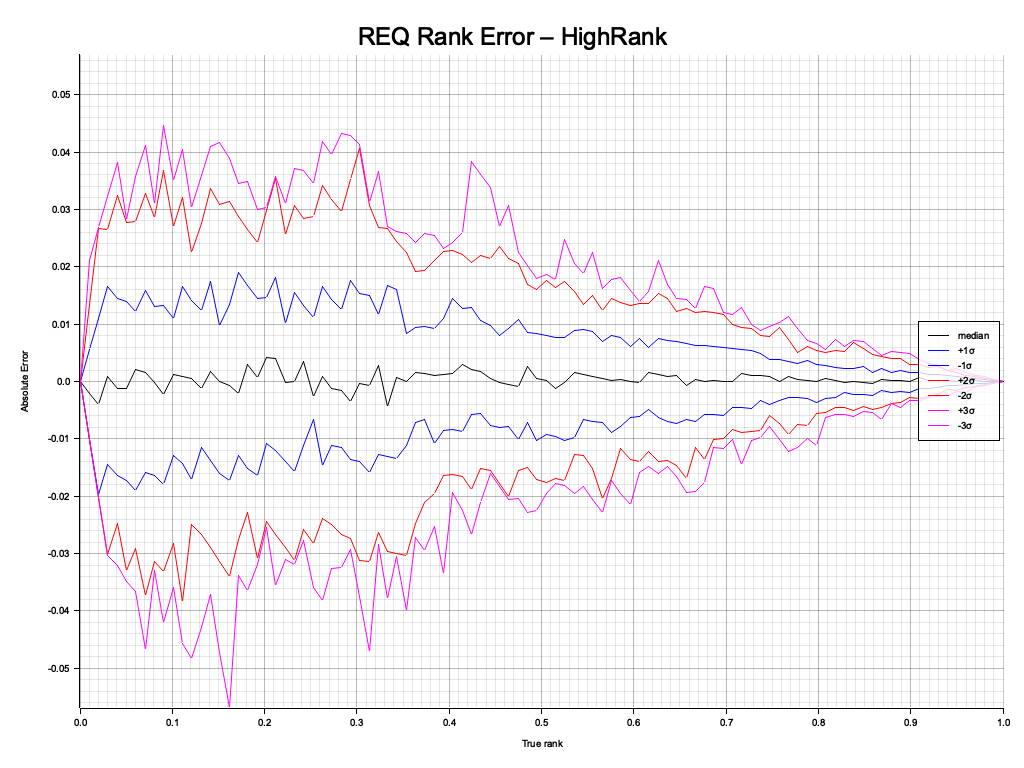
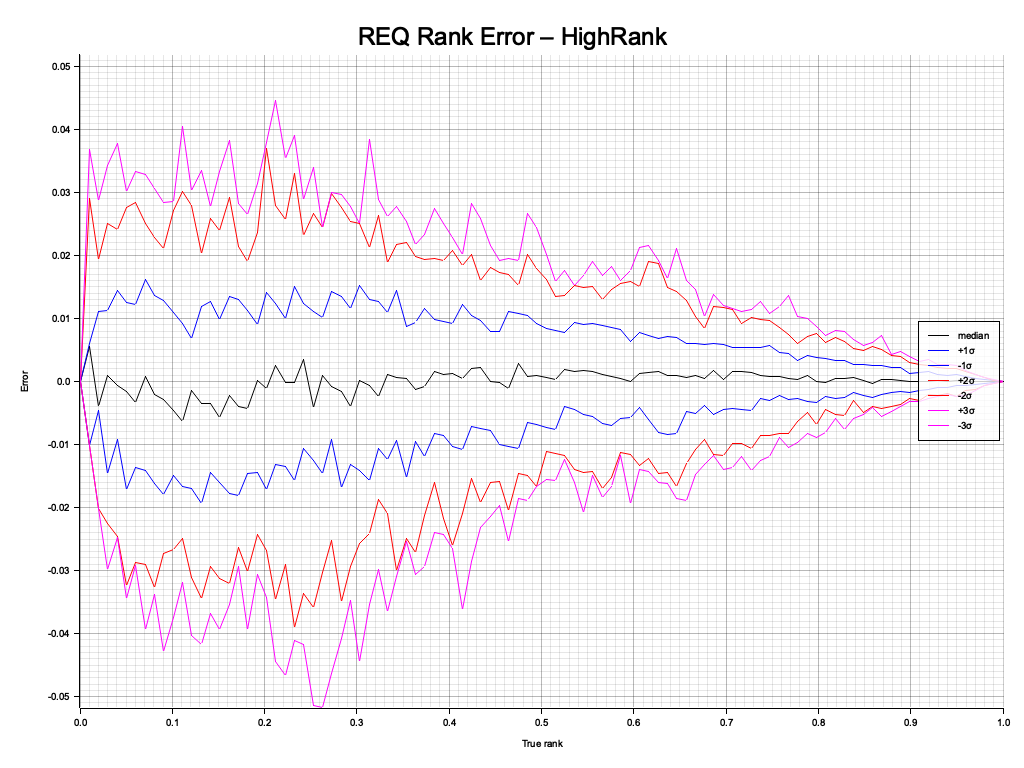
clippy fixes

Changed region(s): [[0.0312, 0.0938, 0.9688, 0.9062], [0.0, 0.4688, 0.0312, 0.5312]]

diff --git a/src/lib.rs b/src/lib.rs
@@ -32,6 +32,10 @@
 //! }
 //! ```
 
+#![deny(clippy::unwrap_used)]
+#![deny(clippy::expect_used)]
+#![deny(clippy::panic)]
+
 use std::fmt;
 use std::cmp::Ordering;
 
@@ -94,14 +98,6 @@ impl ReqKey for i32 {}
 impl ReqKey for u64 {}
 impl ReqKey for u32 {}
 
-#[cfg(test)]
-mod test_all_quantiles;
-#[cfg(test)]
-mod test_error_bounds;
-#[cfg(test)]
-mod test_hra_vs_lra_quantiles;
-#[cfg(test)]
-mod test_simple_correctness;
 
 #[cfg(feature = "serde")]
 use serde::{Deserialize, Serialize};
@@ -114,33 +110,27 @@ pub use sorted_view::SortedView;
 /// Configuration for rank accuracy optimization
 #[derive(Debug, Clone, Copy, PartialEq, Eq)]
 #[cfg_attr(feature = "serde", derive(Serialize, Deserialize))]
+#[derive(Default)]
 pub enum RankAccuracy {
     /// Optimize for accuracy at high ranks (near 1.0)
+    #[default]
     HighRank,
     /// Optimize for accuracy at low ranks (near 0.0)
     LowRank,
 }
 
-impl Default for RankAccuracy {
-    fn default() -> Self {
-        RankAccuracy::HighRank
-    }
-}
 
 /// Search criteria for quantile/rank operations
 #[derive(Debug, Clone, Copy, PartialEq, Eq)]
+#[derive(Default)]
 pub enum SearchCriteria {
     /// Include the weight of the search item in the result
+    #[default]
     Inclusive,
     /// Exclude the weight of the search item from the result
     Exclusive,
 }
 
-impl Default for SearchCriteria {
-    fn default() -> Self {
-        SearchCriteria::Inclusive
-    }
-}
 
 /// A Relative Error Quantiles sketch for approximate quantile estimation.
 ///
@@ -149,6 +139,7 @@ impl Default for SearchCriteria {
 /// over large data streams with bounded memory usage.
 #[derive(Debug, Clone)]
 #[cfg_attr(feature = "serde", derive(Serialize, Deserialize))]
+#[cfg_attr(feature = "serde", serde(bound = "T: Clone + TotalOrd + PartialEq + serde::Serialize + serde::de::DeserializeOwned"))]
 pub struct ReqSketch<T> {
     k: u16,
     rank_accuracy: RankAccuracy,
@@ -171,14 +162,25 @@ where
     ///
     /// Uses k=12 (roughly 1% relative error at 95% confidence) and high rank accuracy.
     pub fn new() -> Self {
-        ReqSketchBuilder::new().build().expect("Default parameters should always be valid")
+        Self {
+            k: 12,
+            rank_accuracy: RankAccuracy::HighRank,
+            total_n: 0,
+            max_nom_size: 0,
+            num_retained: 0,
+            compactors: Vec::new(),
+            promotion_buf: Vec::with_capacity(12),
+            min_item: None,
+            max_item: None,
+            sorted_view_cache: None,
+        }
     }
 
     /// Creates a new REQ sketch with the specified k parameter.
     ///
     /// # Arguments
     /// * `k` - Controls size and error of the sketch. Must be even and in range [4, 1024].
-    ///         Value of 12 roughly corresponds to 1% relative error at 95% confidence.
+    ///   Value of 12 roughly corresponds to 1% relative error at 95% confidence.
     pub fn with_k(k: u16) -> Result<Self> {
         ReqSketchBuilder::new().k(k)?.build()
     }
@@ -431,45 +433,6 @@ where
         self.sorted_view_cache = None;
     }
 
-    /// Direct quantile computation without materializing full sorted view.
-    /// This eliminates the major allocation bottleneck in compute_sorted_view().
-    fn quantile_kway_merge(&mut self, rank: f64, criteria: SearchCriteria) -> Result<T> {
-        // Build a lightweight collection of all (item, weight) pairs without cloning items
-        let mut weighted_items = Vec::new();
-
-        for compactor in &self.compactors {
-            let weight = compactor.weight();
-            for item in compactor.iter() {
-                weighted_items.push((item, weight));
-            }
-        }
-
-        if weighted_items.is_empty() {
-            return Err(ReqError::EmptySketch);
-        }
-
-        // Sort by item value (items are references, so this is cheap)
-        weighted_items.sort_by(|a, b| a.0.total_cmp(&b.0));
-
-        // Calculate target weight
-        let target_weight = (rank * self.total_n as f64) as u64;
-        let mut cumulative_weight = 0u64;
-
-        // Find the quantile
-        for (item, weight) in &weighted_items {
-            if cumulative_weight + weight > target_weight {
-                return Ok((*item).clone());
-            }
-            cumulative_weight += weight;
-        }
-
-        // Return the last item if we've exhausted all items
-        if let Some((last_item, _)) = weighted_items.last() {
-            Ok((*last_item).clone())
-        } else {
-            Err(ReqError::EmptySketch)
-        }
-    }
 
     // Internal methods
 
@@ -948,14 +911,12 @@ mod tests {
         let n = 50; // Should trigger some compaction
 
         let mut previous_len = 0;
-        let mut compaction_occurred = false;
-
         for i in 0..n {
             sketch.update(i as f64);
 
             // Track if compaction occurs
             if sketch.len() < previous_len {
-                compaction_occurred = true;
+                // compaction occurred
             }
             previous_len = sketch.len();
         }

diff --git a/src/compactor.rs b/src/compactor.rs
@@ -4,7 +4,6 @@
 //! with deterministic compaction when capacity is exceeded.
 
 use crate::{RankAccuracy, Result, TotalOrd};
-use std::cmp::Ordering;
 
 fn nearest_even(value: f32) -> u32 {
     // But enforce MIN_K=4 constraint like C++ to prevent infinite loops
@@ -22,8 +21,8 @@ use serde::{Deserialize, Serialize};
 /// by keeping approximately half the items and promoting the rest to the next level.
 #[derive(Debug, Clone)]
 #[cfg_attr(feature = "serde", derive(Serialize, Deserialize))]
+#[cfg_attr(feature = "serde", serde(bound = "T: Clone + TotalOrd + PartialEq + serde::Serialize + serde::de::DeserializeOwned"))]
 pub struct Compactor<T> {
-    // HOT FIELDS - accessed every insert/compaction, grouped for cache locality
     /// Current items in the compactor
     items: Vec<T>,
     /// Whether items are currently sorted
@@ -34,7 +33,6 @@ pub struct Compactor<T> {
     #[cfg_attr(feature = "serde", serde(skip))]
     scratch_buffer: Vec<T>,
 
-    // WARM FIELDS - used during compaction calculations
     /// Actual section size (rounded to integer)
     section_size: u32,
     /// Number of sections in this compactor
@@ -42,7 +40,6 @@ pub struct Compactor<T> {
     /// The level of this compactor (0 = base level)
     lg_weight: u8,
 
-    // COLD FIELDS - configuration, rarely accessed after construction
     /// Whether this compactor is configured for high rank accuracy
     rank_accuracy: RankAccuracy,
     /// Raw section size (may be fractional)
@@ -70,18 +67,15 @@ where
         let nominal: usize = (2 * section_size * num_sections as u32) as usize;
 
         Self {
-            // HOT FIELDS first
             items: Vec::with_capacity(nominal),
             is_sorted: true, // Start sorted (empty)
             state: 0,
             scratch_buffer: Vec::with_capacity(nominal / 2 + 8), // typical promotion size
 
-            // WARM FIELDS
             section_size,
             num_sections,
             lg_weight,
 
-            // COLD FIELDS
             rank_accuracy,
             section_size_raw,
             coin: rand::random::<bool>(), 
@@ -342,59 +336,6 @@ where
         (low, high)
     }
 
-    fn promote_evens_or_odds(&mut self, items: &[T], _rank_accuracy: RankAccuracy) -> &Vec<T> {
-        // Clear and reuse scratch buffer to avoid allocation
-        self.scratch_buffer.clear();
-
-        if items.is_empty() {
-            return &self.scratch_buffer;
-        }
-
-        let odds = if (self.state & 1) == 1 {
-            // For odd state, flip the coin from previous state
-            (self.state >> 1) & 1 == 0 // Flip based on previous state
-        } else {
-            // For even state
-            ((self.state >> 1) ^ (self.state >> 3) ^ (self.state >> 7)) & 1 == 1
-        };
-
-        // Pre-allocate capacity to avoid reallocations
-        let estimated_size = (items.len() + 1) / 2;
-        if self.scratch_buffer.capacity() < estimated_size {
-            self.scratch_buffer.reserve(estimated_size - self.scratch_buffer.capacity());
-        }
-
-        let mut i = if odds { 1 } else { 0 };
-        while i < items.len() {
-            self.scratch_buffer.push(items[i].clone());
-            i += 2; // Skip every other item
-        }
-
-        &self.scratch_buffer
-    }
-
-    #[inline(always)]
-    fn promote_evens_or_odds_simple(&self, items: &[T], _rank_accuracy: RankAccuracy) -> Vec<T> {
-        if items.is_empty() {
-            return Vec::new();
-        }
-
-        let odds = if (self.state & 1) == 1 {
-            (self.state >> 1) & 1 == 0
-        } else {
-            ((self.state >> 1) ^ (self.state >> 3) ^ (self.state >> 7)) & 1 == 1
-        };
-
-        let mut result = Vec::new();
-        let mut i = if odds { 1 } else { 0 };
-
-        while i < items.len() {
-            result.push(items[i].clone());
-            i += 2; // Skip every other item
-        }
-
-        result
-    }
 
     /// Computes the weight contribution of this compactor for rank calculation.
     ///

diff --git a/src/sorted_view.rs b/src/sorted_view.rs
@@ -1,7 +1,6 @@
 //! Sorted view implementation for efficient quantile queries.
 
 use crate::{ReqError, Result, SearchCriteria, TotalOrd};
-use std::cmp::Ordering;
 
 #[cfg(feature = "serde")]
 use serde::{Deserialize, Serialize};
@@ -12,6 +11,7 @@ use serde::{Deserialize, Serialize};
 /// by maintaining items in sorted order with precomputed cumulative weights.
 #[derive(Debug, Clone)]
 #[cfg_attr(feature = "serde", derive(Serialize, Deserialize))]
+#[cfg_attr(feature = "serde", serde(bound = "T: Clone + TotalOrd + PartialEq + serde::Serialize + serde::de::DeserializeOwned"))]
 pub struct SortedView<T> {
     /// Items in sorted order
     items: Vec<T>,
@@ -114,19 +114,9 @@ where
                         // Item is larger than all retained items
                         Ok(self.cumulative_weights[before] as f64 / self.total_weight as f64)
                     }
-                    (Some(before), Some(after)) if self.items[before] == *item => {
-                        // Exact match
+                    (Some(before), Some(_)) => {
+                        // For non-numeric types, use step function (no interpolation)
                         Ok(self.cumulative_weights[before] as f64 / self.total_weight as f64)
-                    }
-                    (Some(before), Some(after)) => {
-                        // Interpolate between before and after items 
-                        let before_item = &self.items[before];
-                        let after_item = &self.items[after];
-                        let before_weight = self.cumulative_weights[before];
-                        let after_weight = self.cumulative_weights[after];
-
-                        // For non-numeric types, fall back to step function (no interpolation)
-                        Ok(before_weight as f64 / self.total_weight as f64)
                     }
                 }
             }

diff --git a/examples/req_rank_error.rs b/examples/req_rank_error.rs
@@ -22,7 +22,6 @@ fn main() -> Result<(), Box<dyn std::error::Error>> {
     println!("Stream length: {}, Plot points: {}, Trials: {}", STREAM_LEN, PLOT_POINTS, TRIALS);
 
     // HRA plot
-    println!("Running HighRank accuracy analysis...");
     run_experiment(
         RankAccuracy::HighRank,
         "assets/req_rank_error_hra.png",
@@ -30,14 +29,12 @@ fn main() -> Result<(), Box<dyn std::error::Error>> {
     )?;
 
     // LRA plot
-    println!("Running LowRank accuracy analysis...");
     run_experiment(
         RankAccuracy::LowRank,
         "assets/req_rank_error_lra.png",
         "REQ Rank Error – LowRank",
     )?;
 
-    println!("✅ Analysis complete!");
     println!("Generated files:");
     println!("  - assets/req_rank_error_hra.png");
     println!("  - assets/req_rank_error_lra.png");
@@ -142,7 +139,6 @@ fn run_experiment(
         title,
     )?;
 
-    println!("  ✅ Generated {}", output_file);
     Ok(())
 }
 
@@ -193,7 +189,7 @@ fn plot_rank_error(
     chart
         .configure_mesh()
         .x_desc("True rank")
-        .y_desc("Absolute Error")
+        .y_desc("Error")
         .draw()?;
 
     // Helper to build line series from (ranks, ys)

diff --git a/src/iter.rs b/src/iter.rs
@@ -72,9 +72,7 @@ where
             self.current_level += 1;
             self.advance_to_next_level();
 
-            if self.current_level_iter.is_none() {
-                return None;
-            }
+            self.current_level_iter.as_ref()?;
         }
     }
 }

diff --git a/README.md b/README.md
@@ -73,7 +73,7 @@ cargo run --example req_rank_error --release
 # Creates: assets/req_rank_error_hra.png, assets/req_rank_error_lra.png
 ```
 
-These plots demonstrate the key REQ characteristic: error tapering toward the optimized tail (rank 1.0 for HRA, rank 0.0 for LRA), with confidence bands showing error distribution across randomized trials.
+These plots demonstrate the key REQ characteristic: error tapering toward the optimized tail (rank 1.0 for HRA, rank 0.0 for LRA)
 
 **High Rank Accuracy (HRA) Mode:**
 ![REQ Rank Error - HighRank](assets/req_rank_error_hra.png)
@@ -91,7 +91,7 @@ cargo run --example basic_usage
 
 ## Contributing
 
-Contributions are welcome! Please feel free to submit a Pull Request.
+Contributions are welcome! Please feel free to submit a Pull Request.   
 
 ## License
 
